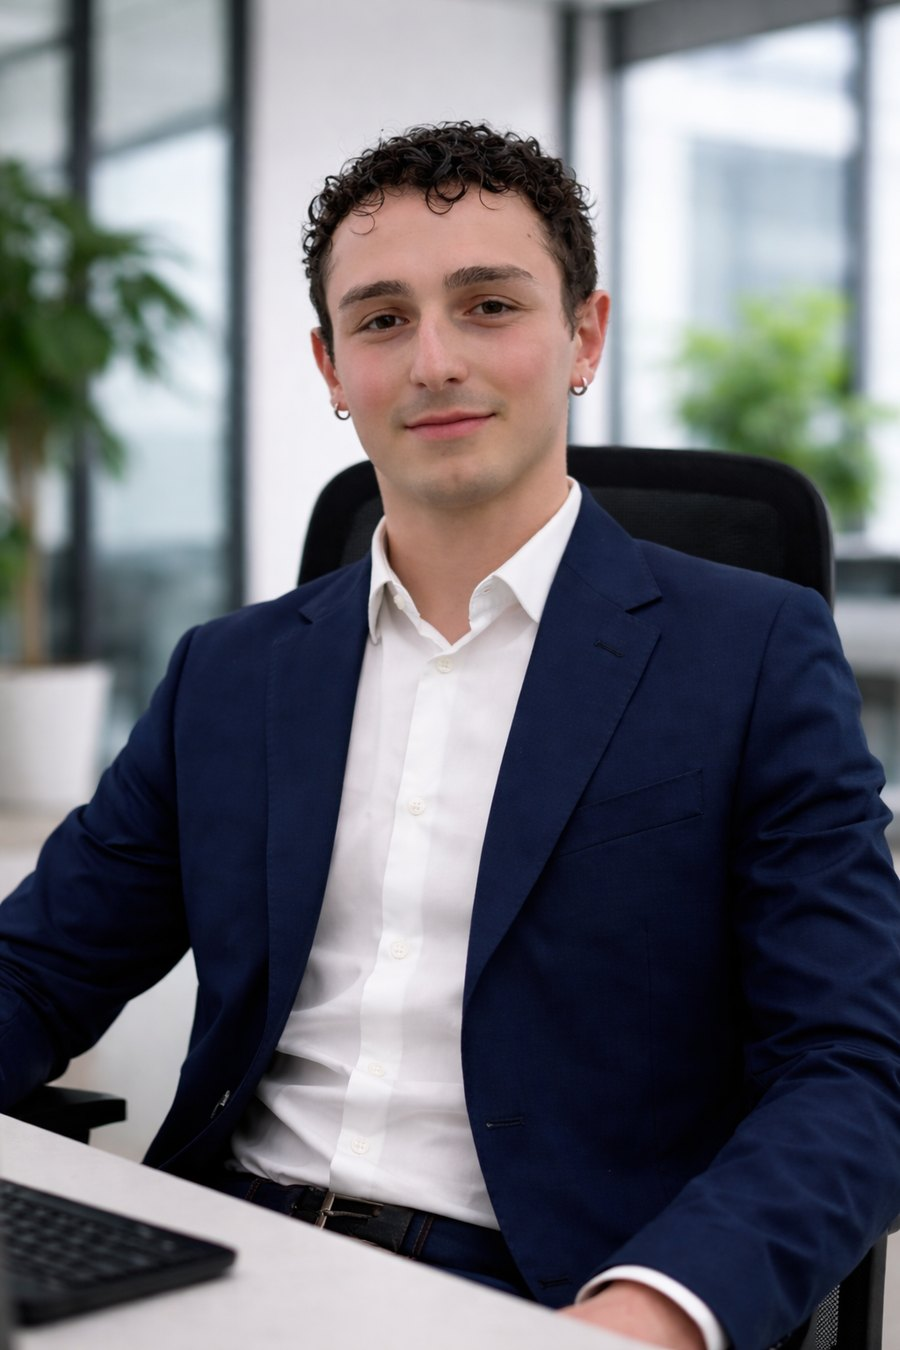
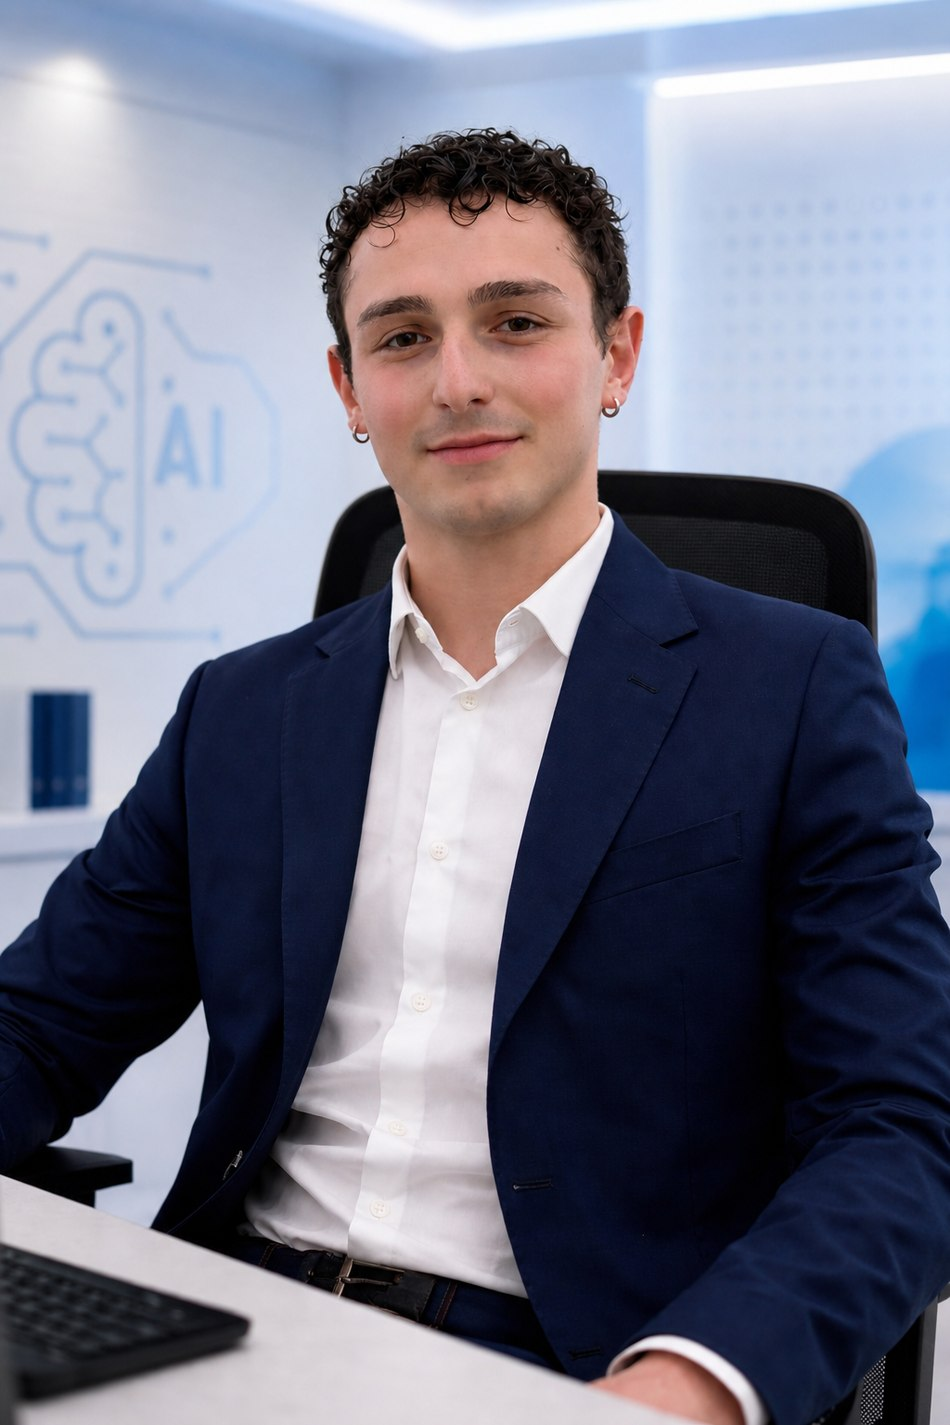
Fase grafica: home alternanza blu/bianco, divisori curvi, Chi sono forte
- Alternanza sezioni blu/bianco: Hero(blu) Chi sono(bianco) Articoli(BLU,
  schede bianche) Formazioni(bianco) Newsletter(blu).
- Divisori curvi tra le sezioni (onda), alternati su/giu (helper curveTop).
- Chi sono: titolo piu forte (serif grande + accento sfumato blu/oro),
  timeline 'a serpente' con anni alternati sinistra/destra, CTA a pulsante
  blu pieno (prima era un link timido).
- Foto sostituita con la nuova (a tema AI) e resa piu immersiva (mask
  sfumata piu ampia, niente box).

diff --git a/style.css b/style.css
@@ -329,30 +329,44 @@ tr:last-child td{border-bottom:none}
 .chisono{padding:90px 0;background:#fff}
 .chisono-grid{display:grid;grid-template-columns:.82fr 1.18fr;gap:56px;align-items:center}
 .chisono-photo img{width:100%;height:auto;display:block;
-  -webkit-mask-image:radial-gradient(125% 115% at 50% 40%, #000 66%, transparent 100%);
-          mask-image:radial-gradient(125% 115% at 50% 40%, #000 66%, transparent 100%)}
-.chisono-body h2{font-family:var(--serif);font-weight:700;font-size:clamp(26px,3vw,38px);line-height:1.14;letter-spacing:-.01em;margin:10px 0 0}
+  -webkit-mask-image:radial-gradient(116% 122% at 50% 40%, #000 52%, transparent 94%);
+          mask-image:radial-gradient(116% 122% at 50% 40%, #000 52%, transparent 94%)}
+.chisono-body h2{font-family:var(--serif);font-weight:700;font-size:clamp(30px,4vw,50px);line-height:1.1;letter-spacing:-.02em;margin:12px 0 0;color:var(--ink)}
+.chisono-body h2 .accent{background:linear-gradient(92deg,var(--blue) 0%,var(--blue-deep) 58%,var(--gold) 128%);
+  -webkit-background-clip:text;background-clip:text;-webkit-text-fill-color:transparent;color:var(--blue)}
+.btn-cta{display:inline-flex;align-items:center;gap:9px;font-family:var(--sans);font-weight:700;font-size:15.5px;color:#fff;background:var(--blue);padding:14px 26px;border-radius:12px;text-decoration:none;margin-top:6px;box-shadow:0 10px 24px rgba(46,125,246,.28);transition:transform .15s,box-shadow .15s,background .15s}
+.btn-cta:hover{background:#1f66d6;transform:translateY(-2px);box-shadow:0 14px 30px rgba(46,125,246,.36)}
+.btn-cta span{transition:transform .18s}
+.btn-cta:hover span{transform:translateY(3px)}
+.alt-curve{position:absolute;top:0;left:0;right:0;transform:translateY(-99%);line-height:0;z-index:3;pointer-events:none}
+.alt-curve svg{width:100%;height:64px;display:block}
 .lead-2{font-family:var(--serif);font-size:18px;color:var(--muted);line-height:1.55;margin:14px 0 0;max-width:52ch}
-.rotta{list-style:none;margin:26px 0;padding:0}
-.rotta li{position:relative;padding:0 0 22px 34px}
-.rotta li::before{content:"";position:absolute;left:6px;top:8px;bottom:-4px;width:2px;background:linear-gradient(#cfe0ff,#eef2f8)}
-.rotta li:last-child::before{display:none}
-.rotta li::after{content:"";position:absolute;left:0;top:5px;width:14px;height:14px;border-radius:50%;background:#fff;border:2px solid var(--blue);box-shadow:0 0 0 3px rgba(46,125,246,.12)}
-.rotta li:last-child::after{border-color:var(--gold);box-shadow:0 0 0 3px rgba(224,169,59,.16)}
-.rotta-year{font-family:var(--sans);font-weight:700;font-size:15px;color:var(--blue);display:block;margin-bottom:3px}
+.rotta{list-style:none;margin:30px 0 8px;padding:0;position:relative}
+.rotta::before{content:"";position:absolute;left:50%;top:6px;bottom:10px;width:2px;transform:translateX(-50%);background:repeating-linear-gradient(#bcd4fb 0 6px, transparent 6px 12px)}
+.rotta li{position:relative;width:50%;box-sizing:border-box;padding:0 0 28px;min-height:60px}
+.rotta li:nth-child(odd){margin-left:0;padding-right:40px;text-align:right}
+.rotta li:nth-child(even){margin-left:50%;padding-left:40px;text-align:left}
+.rotta li::after{content:"";position:absolute;top:3px;width:15px;height:15px;border-radius:50%;background:#fff;border:2px solid var(--blue);box-shadow:0 0 0 4px rgba(46,125,246,.12)}
+.rotta li:nth-child(odd)::after{right:-8px}
+.rotta li:nth-child(even)::after{left:-8px}
+.rotta li:last-child::after{border-color:var(--gold);box-shadow:0 0 0 4px rgba(224,169,59,.16)}
+.rotta-year{font-family:var(--sans);font-weight:700;font-size:16px;color:var(--blue);display:block;margin-bottom:4px}
 .rotta li:last-child .rotta-year{color:var(--gold)}
-.rotta li p{font-family:var(--sans);font-size:15px;color:var(--muted);line-height:1.5;margin:0;max-width:54ch}
+.rotta li p{font-family:var(--sans);font-size:14.5px;color:var(--muted);line-height:1.5;margin:0}
 
-/* --- Ultimi articoli --- */
-.articoli{padding:84px 0;background:#f5f9ff url(immagini/Elementi/bg-articoli.jpg) center/cover no-repeat}
+/* --- Ultimi articoli (sezione BLU, schede bianche) --- */
+.articoli{position:relative;padding:88px 0;color:#fff;background:linear-gradient(180deg,#0c2a5c 0%,#0a2148 100%)}
 .articoli .section-head{margin-bottom:30px}
-.articoli h2{font-family:var(--serif);font-size:clamp(26px,3vw,34px);letter-spacing:-.01em;margin-top:6px}
+.articoli .eyebrow{color:#9fc0f7}
+.articoli .more{color:#9fc0f7}
+.articoli h2{font-family:var(--serif);font-size:clamp(26px,3vw,34px);letter-spacing:-.01em;margin-top:6px;color:#fff}
+.articoli .a-empty-note{color:rgba(233,240,252,.72)}
 .card .card-cover img{transition:transform .35s ease}
 .card:hover .card-cover img{transform:scale(1.05)}
 .a-empty-note{font-family:var(--sans);color:var(--hint);font-size:15.5px;padding:20px 0}
 
 /* --- Formazioni (home) --- */
-.formazioni-home{padding:84px 0;background:linear-gradient(180deg,#eef5ff 0%,#e2edff 100%)}
+.formazioni-home{position:relative;padding:88px 0;background:#fff}
 .formazioni-home .section-head{margin-bottom:30px}
 .formazioni-home h2{font-family:var(--serif);font-size:clamp(26px,3vw,34px);letter-spacing:-.01em;margin-top:6px}
 .form-grid{display:grid;grid-template-columns:1.4fr 1fr;gap:22px}
@@ -371,7 +385,7 @@ tr:last-child td{border-bottom:none}
 .form-main .link-arrow{color:#fff}
 
 /* --- Newsletter immersiva --- */
-.newsletter{position:relative;padding:100px 0;color:#fff;overflow:hidden;background:#08152e url(immagini/Elementi/bg-newsletter.jpg) center/cover no-repeat}
+.newsletter{position:relative;padding:100px 0;color:#fff;background:#08152e url(immagini/Elementi/bg-newsletter.jpg) center/cover no-repeat}
 .newsletter::before{content:"";position:absolute;inset:0;background:linear-gradient(90deg, transparent 16%, rgba(5,12,26,.22) 48%, rgba(5,12,26,.62) 100%)}
 .newsletter-in{position:relative;z-index:2}
 .newsletter-copy{max-width:600px;margin-left:auto}
@@ -403,6 +417,9 @@ tr:last-child td{border-bottom:none}
   .chisono{padding:64px 0}
   .chisono-grid{grid-template-columns:1fr;gap:30px}
   .chisono-photo{max-width:340px;margin:0 auto}
+  .rotta::before{left:6px;transform:none}
+  .rotta li,.rotta li:nth-child(odd),.rotta li:nth-child(even){width:100%;margin-left:0;padding:0 0 22px 34px;text-align:left}
+  .rotta li::after,.rotta li:nth-child(odd)::after,.rotta li:nth-child(even)::after{left:-1px;right:auto}
   .form-grid{grid-template-columns:1fr}
   .newsletter::before{background:linear-gradient(180deg, rgba(5,12,26,.35), rgba(5,12,26,.72))}
   .nl-form{flex-direction:column}

diff --git a/build.js b/build.js
@@ -110,6 +110,14 @@ function authorHtml() {
 // Numero editoriale a due cifre: 1 → #01
 function num2(n) { return '#' + String(n).padStart(2, '0'); }
 
+// Divisore curvo tra sezioni (onda). fill = colore della sezione; dir 'up' | 'down'.
+const curveTop = (fill, dir) => {
+  const p = dir === 'down'
+    ? 'M0,0 C430,64 1010,64 1440,0 L1440,80 L0,80 Z'
+    : 'M0,80 C430,16 1010,16 1440,80 L1440,80 L0,80 Z';
+  return `<div class="alt-curve"><svg viewBox="0 0 1440 80" preserveAspectRatio="none"><path d="${p}" fill="${fill}"/></svg></div>`;
+};
+
 function nav(active) {
   const link = (href, label) => `<a href="${href}"${active === href ? ' class="active"' : ''}>${label}</a>`;
   return `<div class="snav-wrap">
@@ -274,7 +282,7 @@ function homePage(arts) {
       <div class="chisono-photo"><img src="${IMG}Elementi/alessandro.jpg" alt="Alessandro Curti, fondatore di Bussola AI"></div>
       <div class="chisono-body">
         <span class="eyebrow">Chi sono</span>
-        <h2>Rendo l'intelligenza artificiale più chiara, pratica e utile.</h2>
+        <h2 class="chisono-title">Rendo l'intelligenza artificiale <span class="accent">più chiara, pratica e utile.</span></h2>
         <p class="lead-2">Aiuto a comprendere e utilizzare l'intelligenza artificiale in modo concreto, pratico e sostenibile.</p>
         <ol class="rotta">
           <li><span class="rotta-year">2020</span><p>Ottengo il diploma in Amministrazione, Finanza e Marketing.</p></li>
@@ -282,13 +290,14 @@ function homePage(arts) {
           <li><span class="rotta-year">2025</span><p>Mi laureo al Master in Innovation Management alla SUPSI e inizio a lavorare come consulente aziendale e responsabile della digitalizzazione.</p></li>
           <li><span class="rotta-year">2026</span><p>Nasce Bussola AI di Alessandro Curti. Oggi sono docente di Economia Aziendale al CPC e guido il progetto come fondatore.</p></li>
         </ol>
-        <a class="link-arrow" href="#iscriviti">Non perdere la rotta della settimana ↓</a>
+        <a class="btn-cta" href="#iscriviti">Non perdere la rotta della settimana <span aria-hidden="true">↓</span></a>
       </div>
     </div>
   </section>
 
   <!-- ULTIMI ARTICOLI -->
   <section class="articoli">
+    ${curveTop('#0c2a5c', 'up')}
     <div class="wrap">
       <div class="section-head">
         <div>
@@ -307,6 +316,7 @@ ${latest}
 
   <!-- FORMAZIONI -->
   <section class="formazioni-home">
+    ${curveTop('#ffffff', 'down')}
     <div class="wrap">
       <div class="section-head">
         <div>
@@ -333,6 +343,7 @@ ${latest}
 
   <!-- NEWSLETTER -->
   <section class="newsletter" id="iscriviti">
+    ${curveTop('#0a1a33', 'up')}
     <div class="wrap newsletter-in">
       <div class="newsletter-copy">
         <span class="eyebrow gold">Newsletter settimanale</span>
